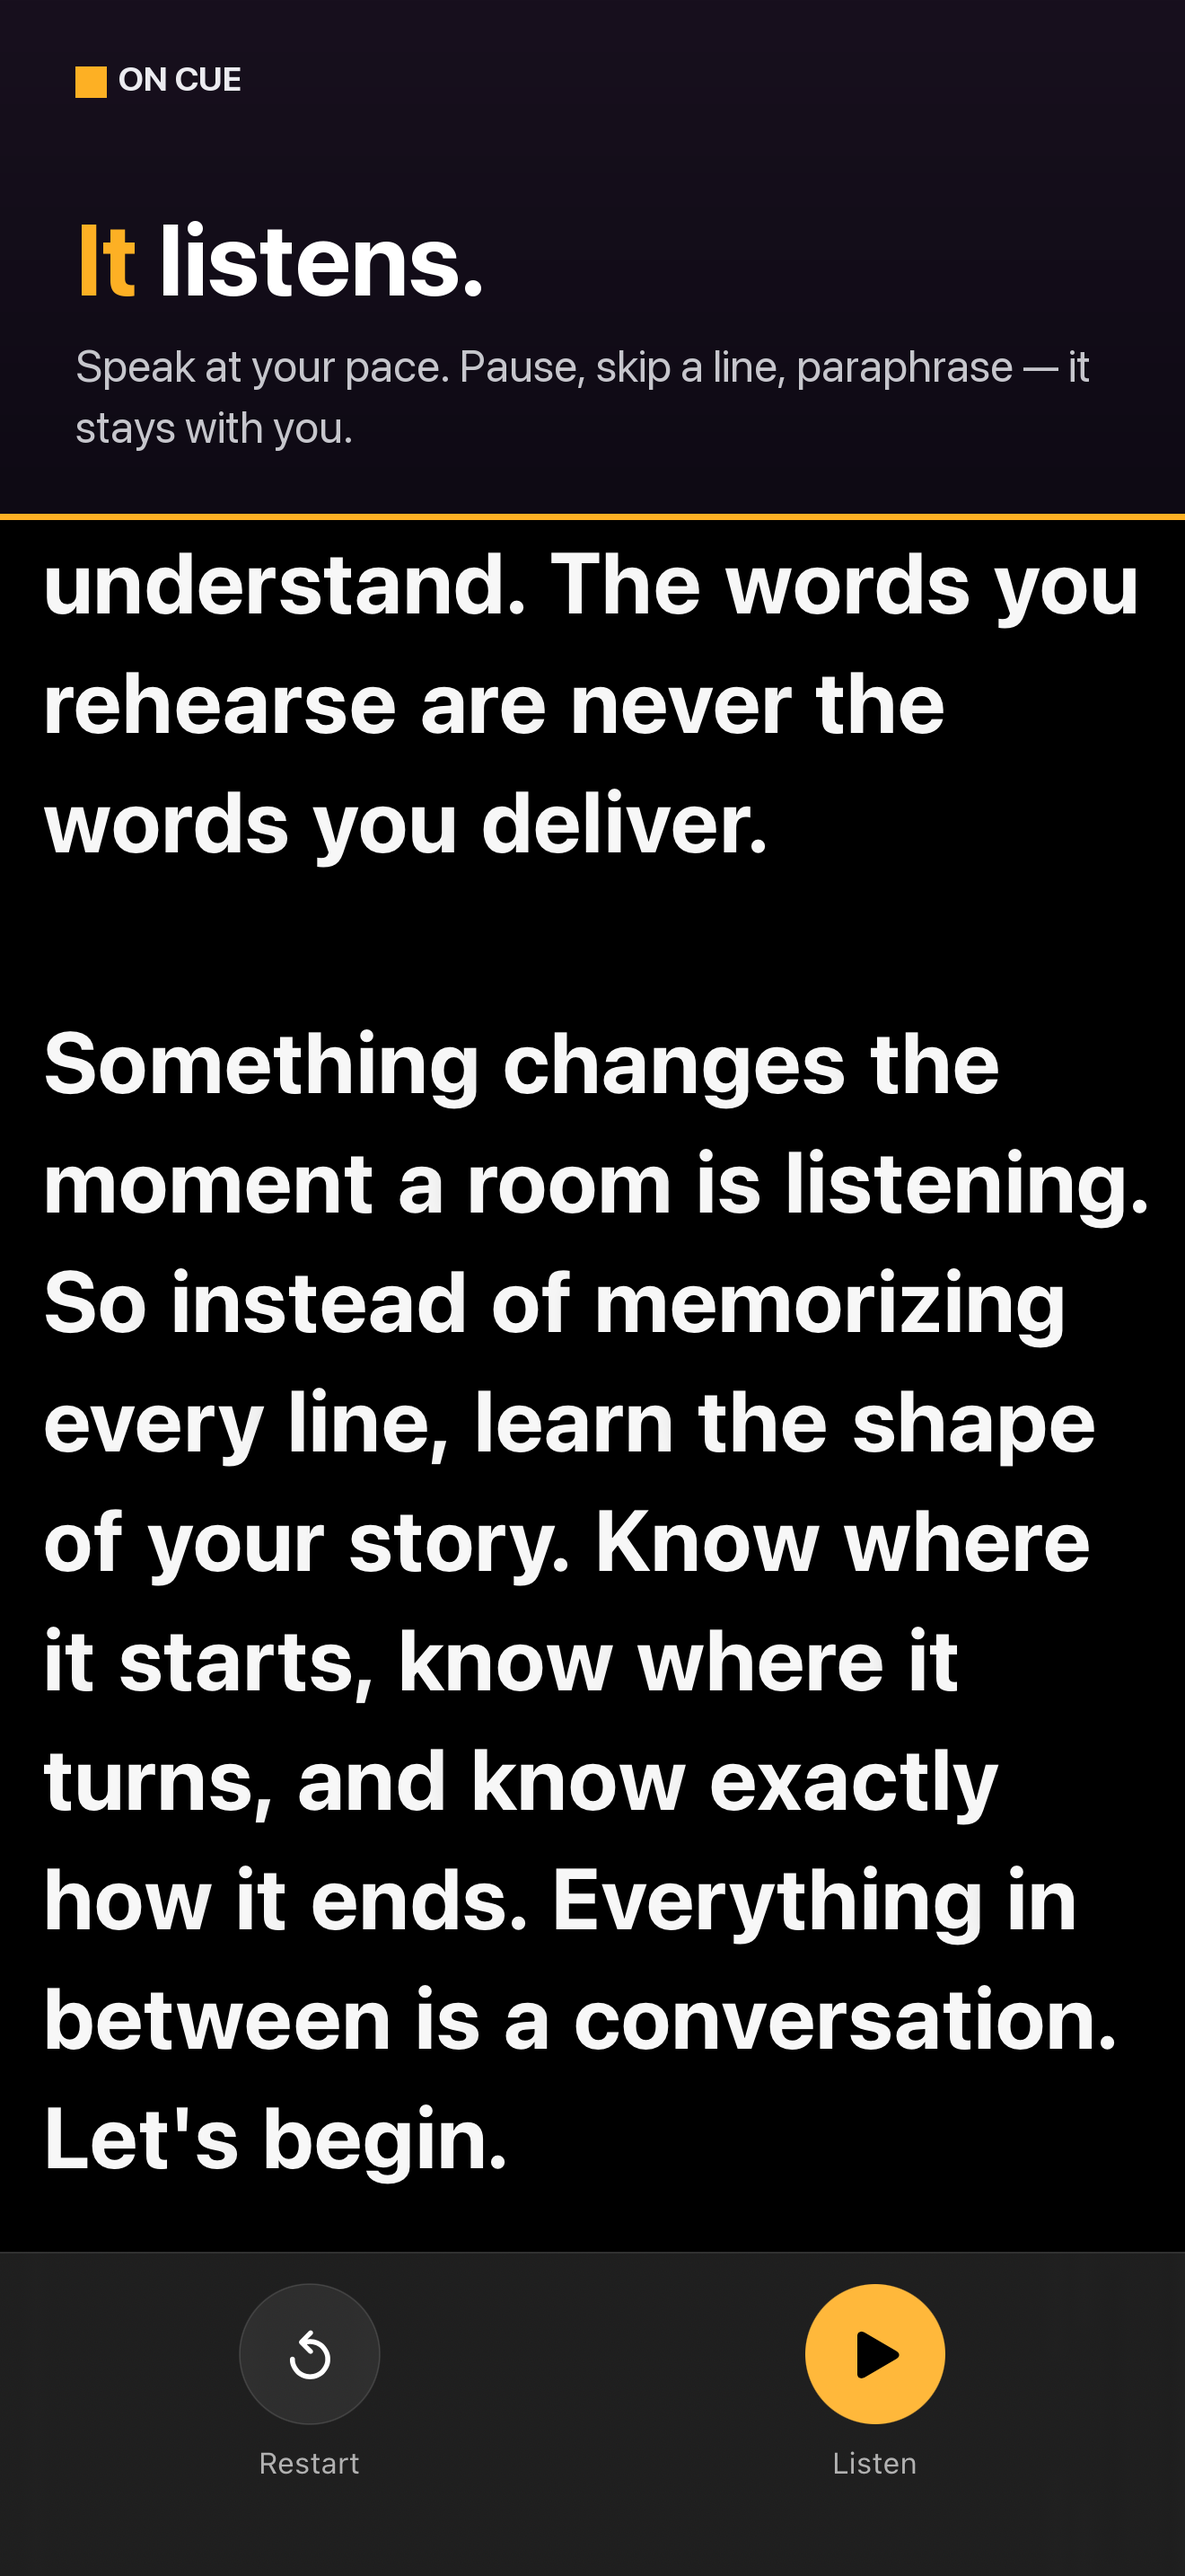
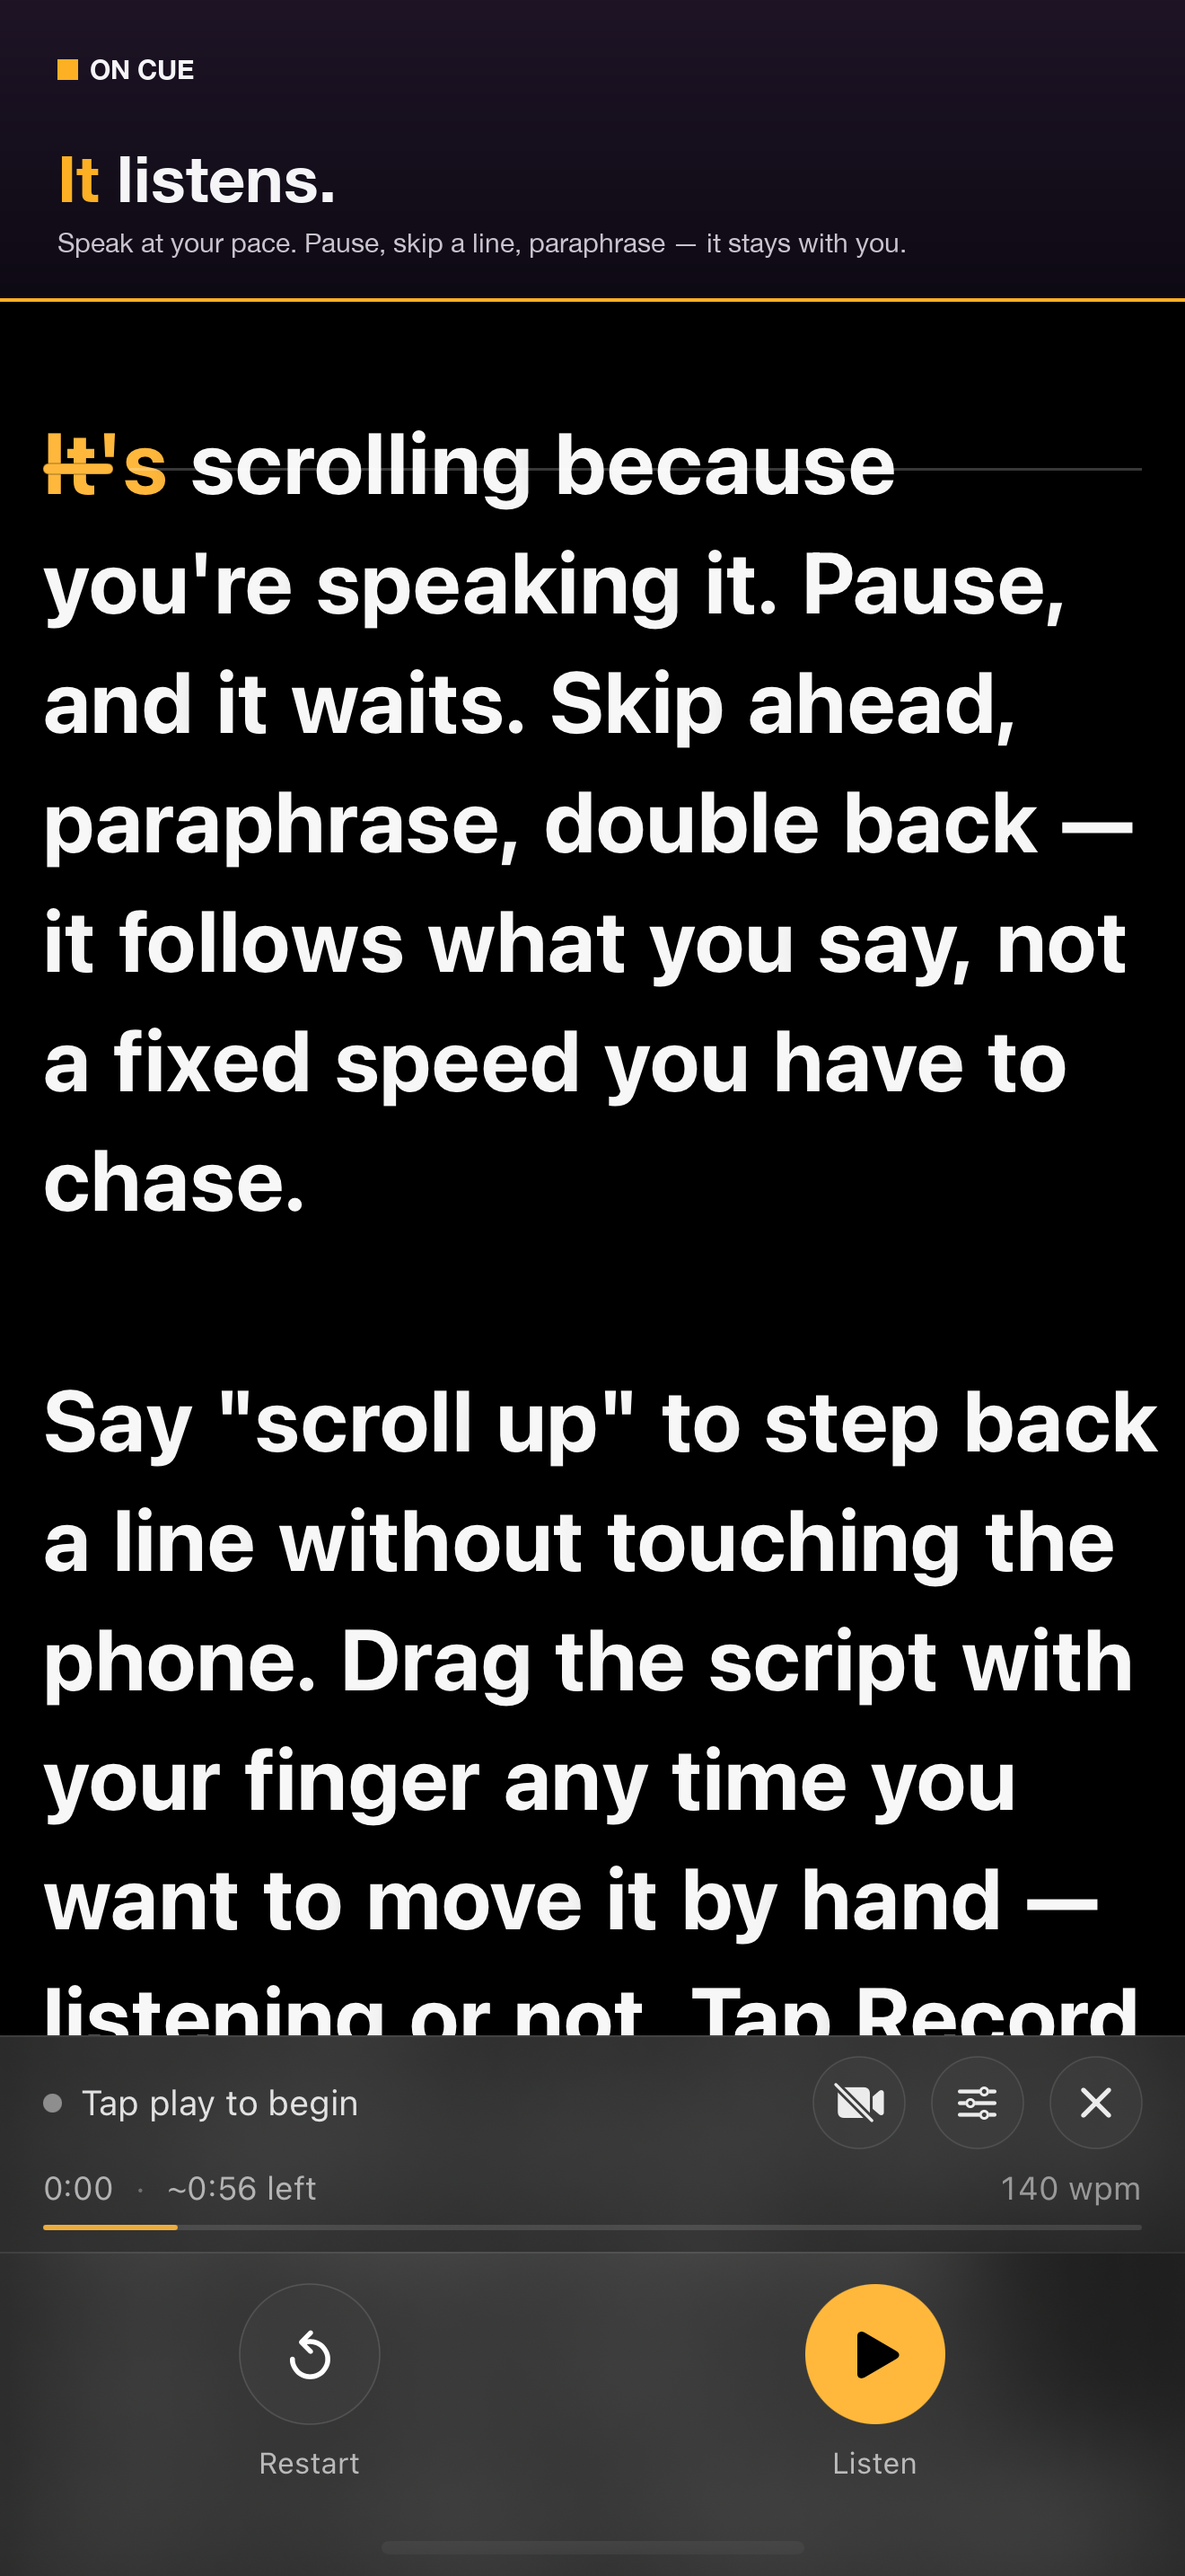
Refresh App Store marketing screenshots for 1.3; correct stale Mirror copy
Screenshots now reflect the consolidated bottom chrome and the fixed
vertical-flip Mirror (previously they showed the pre-fix split-chrome
layout and an earlier, incorrect mirror behavior). Adds a first iPad
set alongside the existing iPhone set.

README and the in-app help sheet still described Mirror as a "full
180°" turn from an earlier iteration; both now describe the vertical
flip that shipped.

diff --git a/Cue/Views/HelpSheet.swift b/Cue/Views/HelpSheet.swift
@@ -49,7 +49,7 @@ struct HelpSheet: View {
                     explain("HD / 4K", "Recording size and frame rate, offered only as far as your device's front camera supports. Stop recording to change them.")
                     explain("Text size, Text alignment", "How the script is drawn. These live here rather than on the first screen because a number like \"32\" means nothing until you can see the words at that size.")
                     explain("Idle drift", "Creeps the script upward while you're silent. Leave it off unless recognition keeps losing you — it works against deliberate pauses, which On Cue otherwise handles for you.")
-                    explain("Mirror", "Turns the script 180° — not just left-to-right — for teleprompter rigs that mount the phone rotated and bounce the screen off a sheet of glass in front of the lens; the reflection turns it back the right way round. The controls stay exactly where they are and read normally, since you look at them directly rather than through the glass. Reading straight from the phone? Leave it off.")
+                    explain("Mirror", "Flips the script top-to-bottom for teleprompter rigs that bounce the screen off a sheet of glass in front of the lens; the reflection turns it back the right way round. The controls stay exactly where they are and read normally, since you look at them directly rather than through the glass. Reading straight from the phone? Leave it off.")
                     explain("Reading line", "The marked line your eyes read from. Keep it high on the screen so you're looking near the lens rather than down the phone. Adjust it any time from the settings button.")
                     explain("Text and Dim", "Text fades the script so more of the camera shows through; Dim darkens the picture behind it. Between them you can keep the words legible over any background.")
                     explain("Timing", "Elapsed speaking time, an estimate of what's left, and your pace. The estimate is marked with a ~ until On Cue has heard enough of the take to measure how fast you actually talk.")

diff --git a/README.md b/README.md
@@ -10,7 +10,7 @@ Built with SwiftUI, Apple's Speech framework and AVFoundation. No subscription a
 
 - **Follows your voice.** On-device speech recognition matches what you say against the script and moves the reading line to keep your place. Skip a word, paraphrase, or pause and it stays with you.
 - **Records while you read.** Front-camera capture with the script overlaid, saved straight to Photos. The camera is on by default and toggles off from the prompter itself, where you can see what it does.
-- **Explains itself.** A "?" on the setup screen opens a plain-language guide to every option — including Mirror, which turns the script a full 180° (not just left-to-right) for teleprompter rigs that mount the phone rotated. The controls never move and stay right-way-up, since you look at them directly rather than through the glass.
+- **Explains itself.** A "?" on the setup screen opens a plain-language guide to every option — including Mirror, which flips the script top-to-bottom for teleprompter rigs that bounce the screen off a sheet of glass in front of the lens. The controls never move and stay right-way-up, since you look at them directly rather than through the glass.
 - **Times your read.** Word count and estimated run time as you write — pick a relaxed, natural or brisk pace right in the estimate — then elapsed time, time left and a progress bar while you speak. The estimate starts from your target pace and switches to your *measured* pace once there's enough of the take to judge from.
 - **Counts you in.** An optional 3, 5 or 10 second pre-roll before listening starts, so you can settle and find the lens. Tap anywhere to cancel it.
 - **Adapts to the device.** Zoom, HDR, stabilisation and low-light boost appear as controls only if the connected iPhone's front camera actually supports them. Recording quality is a Camera.app-style pair of toggles — HD or 4K, and the frame rates that size offers (24/25/30/60, as far as the camera supports) — right on the prompter.
